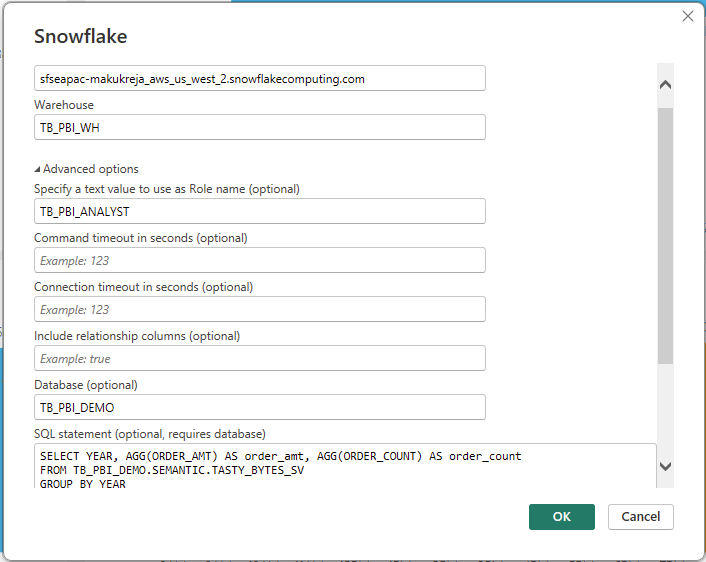
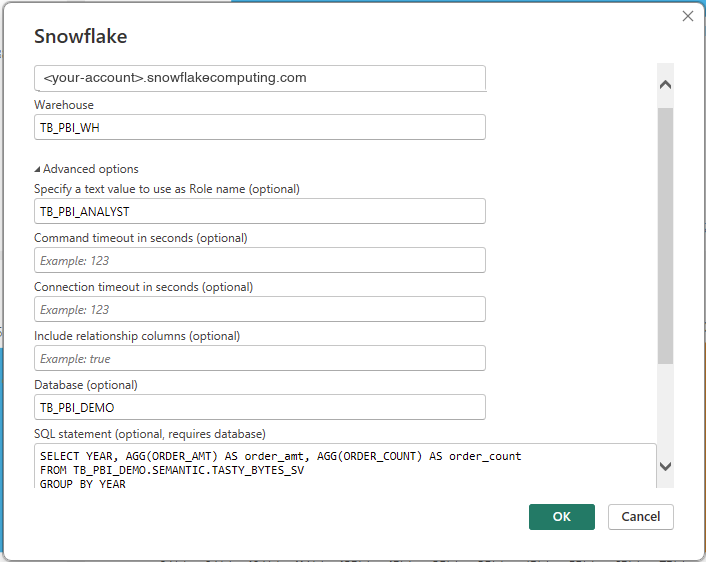
Publish the lab as a GitHub Pages site and redact account host in screenshots
Generated with [Snowflake CoCo](https://docs.snowflake.com/en/user-guide/cortex-code/cortex-code)

Changed region(s): [[0.0623, 0.121, 0.6856, 0.1815]]

diff --git a/scripts/build_site.py b/scripts/build_site.py
@@ -1,0 +1,57 @@
+"""Split README.md into one MkDocs page per step. README stays the single source."""
+import re, shutil
+from pathlib import Path
+
+root = Path(__file__).resolve().parent.parent
+out = root / ".site_src"
+shutil.rmtree(out, ignore_errors=True)
+(out).mkdir()
+shutil.copytree(root / "docs" / "images", out / "images")
+
+lines = (root / "README.md").read_text(encoding="utf-8").splitlines()
+
+def shift(block):
+    res, fence = [], False
+    for l in block:
+        if l.lstrip().startswith("```"):
+            fence = not fence
+        if not fence and re.match(r"#{2,6} ", l):
+            l = l[1:]
+        res.append(l)
+    return res
+
+sections, cur, fence = [], None, False
+head = []
+for l in lines:
+    if l.lstrip().startswith("```"):
+        fence = not fence
+    if not fence and l.startswith("## "):
+        cur = [l]
+        sections.append(cur)
+    elif cur is None:
+        head.append(l)
+    else:
+        cur.append(l)
+
+nav = []
+for i, sec in enumerate(sections):
+    title = sec[0][3:].strip()
+    if i == 0:
+        name, body = "index.md", head + [""] + sec
+        body = [l for l in body]
+        body_text = "\n".join(body)
+        nav.append((title if title != "Overview" else "Overview", name))
+    else:
+        m = re.match(r"Step (\d+)", title)
+        slug = f"step-{m.group(1)}" if m else re.sub(r"[^a-z0-9]+", "-", title.lower()).strip("-")
+        name = f"{slug}.md"
+        body_text = "\n".join(shift(sec))
+        nav.append((title, name))
+    if i == 0:
+        # head holds the H1; the section heading becomes a normal H2
+        pass
+    body_text = body_text.replace("docs/images/", "images/")
+    (out / name).write_text(body_text + "\n", encoding="utf-8")
+
+(out / "nav.txt").write_text("\n".join(f"{t}|{n}" for t, n in nav), encoding="utf-8")
+print("\n".join(f"{n}  <-  {t}" for t, n in nav))
